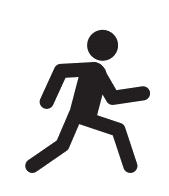
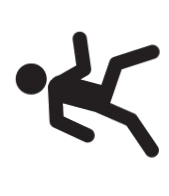
Adding elements
Hopefully these are last few images that needs to be added, soon moving to the sounds

Changed region(s): [[0.0888, 0.1531, 0.9467, 0.8878]]

diff --git a/sketch.js b/sketch.js
@@ -11,6 +11,9 @@ let terrain = [];
 let initialPoint = 0;
 let stickFigure;
 let item1, item2, item3, item4;
+let move1, move2, move3, move4;
+let wear, wear1, wear2, wear3, wear4, wear5, wear6, wear7, wear8, wear9, wear10, wear11;
+let obstacle;
 let bgImage;
 // Global code for classes
 let mouseToggle;
@@ -124,10 +127,27 @@ function draw() {
 
 function preload() {
   bgImage = loadImage("assets/backgroundimage.jfif");
+  obstacle = loadImage("assets/obstacle.png");
   item1 = loadImage("assets/hat1.png");
   item2 = loadImage("assets/jester1.png");
   item3 = loadImage("assets/sword.png");
   item4 = loadImage("assets/shoe1.png");
+  move1 = loadImage("assets/character.png");
+  move2 = loadImage("assets/character1.png");
+  move3 = loadImage("assets/character2.png");
+  move4 = loadImage("assets/character3.png");
+  wear = loadImage("assets/Character-duplicate.png");
+  wear1 = loadImage("assets/full-costume1.png");
+  wear2 = loadImage("assets/full-costume2.png");
+  wear3 = loadImage("assets/hand1costume.png");
+  wear4 = loadImage("assets/hand1costume1.png");
+  wear5 = loadImage("assets/hat1.png");
+  wear6 = loadImage("assets/hat1costume1.png");
+  wear7 = loadImage("assets/hat1costume2.png");
+  wear8 = loadImage("assets/hat2costume.png");
+  wear9 = loadImage("assets/hat2costume1.png");
+  wear10 = loadImage("assets/hat2costume2.png");
+  wear11 = loadImage("assets/Shoe1costume.png");
 }
 
 // drawing a terrain that would work as a background for the game
